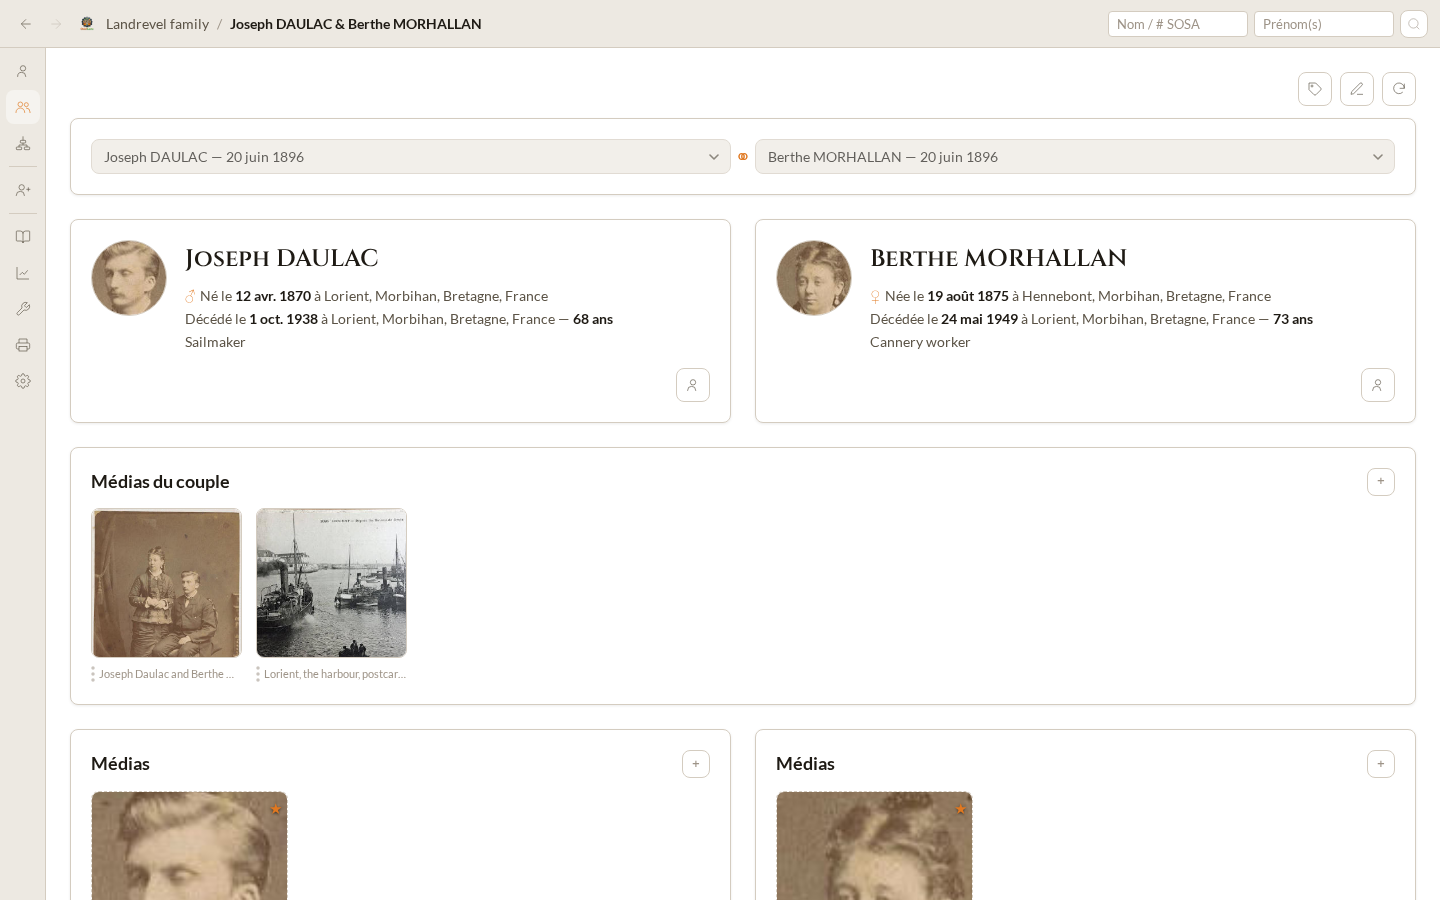
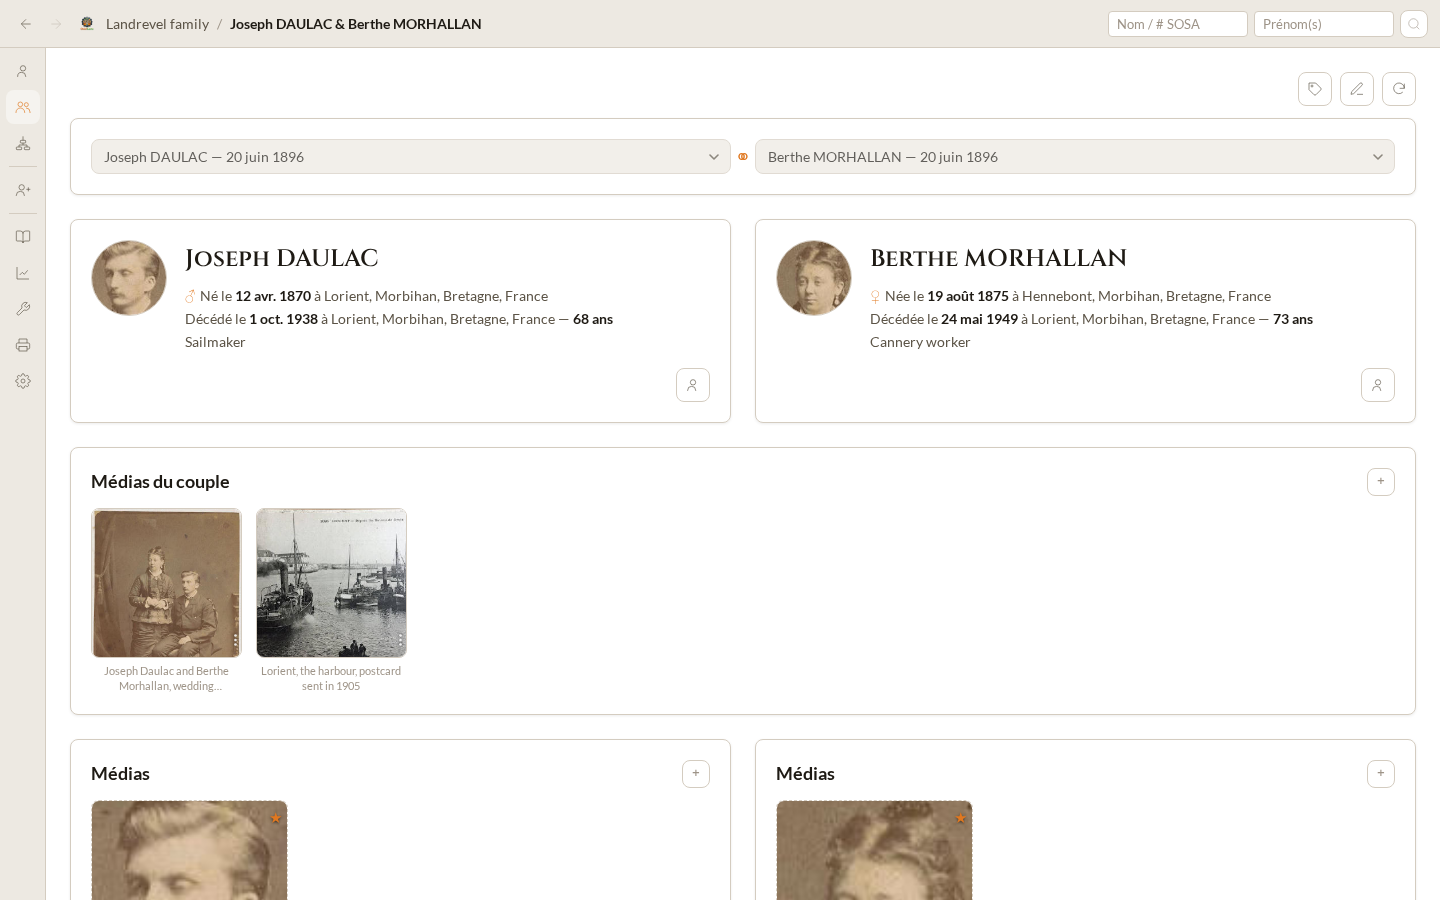
fix(ui): put a media tile's ⋮ on its picture and give its caption two lines
A media tile's ⋮ led its caption row, which left the caption a narrower
line and made the trigger read as part of the title. It now lies on the
picture, in its bottom right corner, close to the edge:

- discreet: no round scrim behind it, smaller dots than a row's ⋮
  (3 × 12 px), in white at 85 % with a soft 1.5 px shadow so that they
  still read on a pale scan; fully white when pointed at or open;
- the button keeps its 26 px hit area, the dots pushed to its right
  edge, and draws a focus ring when focused from the keyboard now that
  no background marks it;
- its own click and press never reach the picture, so it opens the
  tile's menu, not the viewer. The vignette tiles follow suit.

The caption keeps the whole width of the tile and wraps to two lines at
most, cut with an ellipsis, and always two lines tall so that tiles of
one row stay level.

ui-common.md §4.8 and the user guide (media, EN and FR) describe the new
place; the screenshots showing galleries are retaken.

Verified with just check (772 tests passed) and the PDF e2e spec,
including the updated test that the ⋮ sits in the picture's bottom
right corner and opens the menu rather than the viewer.

diff --git a/e2e/tests/pdf.spec.ts b/e2e/tests/pdf.spec.ts
@@ -130,15 +130,22 @@ test("at a phone's width the viewer's pager, count and pages fit its pane", asyn
     await expect.poll(() => scroll.evaluate(box => box.scrollWidth - box.clientWidth)).toBeLessThanOrEqual(1);
 });
 
-test("a media tile's ⋮ starts on its picture's left edge", async ({ page, request, tree }) => {
+test("a media tile's ⋮ lies on its picture, at the bottom right, and does not open the viewer", async ({ page, request, tree }) => {
     await attachPdf(request, tree, "Fictitious register", textPdf());
 
     await page.goto(`/trees/${tree.treeId}/persons/${tree.anchorId}`);
     const tile = page.locator(".media-tile", { hasText: "Fictitious register" });
-    const picture = await tile.locator(".media-thumb").boundingBox();
-    const dots = await tile.locator(".media-caption-row .menu-button-icon").boundingBox();
-    expect(picture).not.toBeNull();
-    expect(dots).not.toBeNull();
-    // The dots, not the button's padding, line up with the picture's frame.
-    expect(Math.abs(dots!.x - picture!.x)).toBeLessThanOrEqual(1);
+    const picture = (await tile.locator(".media-thumb").boundingBox())!;
+    const trigger = tile.locator(".media-thumb .menu-button");
+    const placed = (await trigger.boundingBox())!;
+    // Inside the picture, in its bottom right corner.
+    expect(placed.x + placed.width).toBeLessThanOrEqual(picture.x + picture.width);
+    expect(placed.y + placed.height).toBeLessThanOrEqual(picture.y + picture.height);
+    expect(picture.x + picture.width - (placed.x + placed.width)).toBeLessThanOrEqual(8);
+    expect(picture.y + picture.height - (placed.y + placed.height)).toBeLessThanOrEqual(8);
+
+    // A click on it opens the tile's menu, not the viewer.
+    await trigger.click();
+    await expect(page.locator(".context-menu")).toBeVisible();
+    await expect(page.locator(".pdf-viewer")).toHaveCount(0);
 });

diff --git a/crates/oxidgene-ui/src/components/layout.rs b/crates/oxidgene-ui/src/components/layout.rs
@@ -2479,7 +2479,6 @@ pub const LAYOUT_STYLES: &str = r#"
     .dict-row:focus-within .menu-button,
     .media-tile:hover .menu-button,
     .media-tile:focus-within .menu-button,
-    .media-caption-row:hover .menu-button,
     .note-entry:hover .menu-button,
     .note-entry:focus-within .menu-button,
     .pd-ev-row:hover .menu-button,
@@ -5017,11 +5016,16 @@ pub const LAYOUT_STYLES: &str = r#"
         font-size: var(--text-70);
         color: var(--text-muted);
         text-align: center;
-        /* One line, ellipsised: file names run long and a two-line caption
-           makes neighbouring tiles sit at different heights. */
+        /* Two lines, ellipsised, and always two lines tall, so that a short
+           caption does not leave its tile higher than its neighbours. */
+        line-height: 1.3;
+        min-height: 2.6em;
         overflow: hidden;
-        text-overflow: ellipsis;
-        white-space: nowrap;
+        overflow-wrap: anywhere;
+        display: -webkit-box;
+        -webkit-box-orient: vertical;
+        -webkit-line-clamp: 2;
+        line-clamp: 2;
     }
     /* The tags' dots follow the caption on its line, which gives way to
        them, so a tagged tile is no taller than another. */
@@ -5032,17 +5036,44 @@ pub const LAYOUT_STYLES: &str = r#"
         min-width: 0;
     }
     .media-caption-row .tag-badges { flex: 0 1 6rem; width: auto; margin-left: var(--space-2); }
-    /* The tile's ⋮ leads its caption row, its glyph on the picture's left
-       edge (no padding before it); the caption takes the rest of the row,
-       centred in it, so a trailing ⋮ does not read as part of the name. */
-    .media-caption-row:has(> .menu-button-wrap) { justify-content: flex-start; }
-    .media-caption-row > .menu-button-wrap { flex: 0 0 auto; }
-    .media-caption-row > .menu-button-wrap > .menu-button {
-        justify-content: flex-start;
-        padding-left: 0;
-        padding-right: var(--space-2);
+    /* A tile's ⋮ lies on its picture, at the bottom right: discreet dots,
+       a dimmed white with a soft shadow so that they read on any
+       photograph, even a white page, without a disc behind them; the
+       caption keeps the whole width of the tile. */
+    .media-thumb > .menu-button-wrap {
+        position: absolute;
+        right: 0;
+        bottom: 4px;
     }
-    .media-caption-row > .menu-button-wrap ~ .media-caption { flex: 1 1 auto; min-width: 0; }
+    .media-thumb > .menu-button-wrap > .menu-button,
+    .media-tile:hover .media-thumb > .menu-button-wrap > .menu-button,
+    .media-tile:focus-within .media-thumb > .menu-button-wrap > .menu-button {
+        width: 26px;
+        height: 26px;
+        /* The dots close to the picture's right edge, the button keeping
+           its full width to be hit. */
+        justify-content: flex-end;
+        padding: 0 4px 0 0;
+        border-radius: 50%;
+        background: none;
+        color: color-mix(in srgb, var(--on-accent) 85%, transparent);
+        filter: drop-shadow(0 0 1.5px color-mix(in srgb, var(--scrim) 70%, transparent));
+    }
+    .media-thumb > .menu-button-wrap > .menu-button:hover,
+    .media-thumb > .menu-button-wrap > .menu-button:focus-visible,
+    .media-thumb > .menu-button-wrap > .menu-button[aria-expanded="true"] {
+        background: none;
+        color: var(--on-accent);
+    }
+    /* Smaller dots than a row's ⋮: the picture is what the tile shows. */
+    .media-thumb > .menu-button-wrap .menu-button-icon {
+        width: 3px;
+        height: 12px;
+    }
+    .media-thumb > .menu-button-wrap > .menu-button:focus-visible {
+        outline: 2px solid var(--on-accent);
+        outline-offset: -2px;
+    }
 
     .media-event-link {
         font-size: var(--text-70);

diff --git a/crates/oxidgene-ui/src/components/media_gallery.rs b/crates/oxidgene-ui/src/components/media_gallery.rs
@@ -1084,8 +1084,8 @@ fn MediaTile(
                     look.pdf_preview.map(|page| (tree_id, page)),
                 )}
                 {tile_badges(&i18n, look.draws_remote, is_portrait, tile.media.page_count)}
-            }
-            div { class: "media-caption-row",
+                // The ⋮ lies on the picture, at its bottom right (ui-common.md
+                // §4.8); its own click and press never reach the picture.
                 MenuButton {
                     name: caption.clone(),
                     expanded: menu_at().is_some(),
@@ -1100,6 +1100,8 @@ fn MediaTile(
                         });
                     },
                 }
+            }
+            div { class: "media-caption-row",
                 div { class: "media-caption", title: "{caption}", "{caption}" }
                 TagBadges { tree_id: tree_id.to_string(), tags: tags.clone() }
             }
@@ -1774,8 +1776,6 @@ fn VignetteTile(
                 // Says what it is: without it a crop and the whole scan look
                 // like two photographs of the same thing.
                 span { class: "media-vignette-badge", title: i18n.t("media.vignette"), "\u{2702}" }
-            }
-            div { class: "media-caption-row",
                 if person_id.is_some() {
                     MenuButton {
                         name: caption.clone(),
@@ -1790,6 +1790,8 @@ fn VignetteTile(
                         },
                     }
                 }
+            }
+            div { class: "media-caption-row",
                 div { class: "media-caption", title: "{caption}", "{caption}" }
             }
             if let Some(err) = error() {

diff --git a/docs/ui-common.md b/docs/ui-common.md
@@ -3,7 +3,7 @@ type: "UI Specification"
 title: "Visual & Functional Specifications — Common UI"
 description: "Shared layout, navigation, design tokens, components, accessibility, and responsive behavior."
 tags: [oxidgene, specification, ui, ux, design-system]
-generated: { by: human:maintainer, at: 2026-10-23T15:10:09Z }
+generated: { by: human:maintainer, at: 2026-10-23T21:40:00Z }
 ---
 
 # Visual & Functional Specifications — Common UI
@@ -837,7 +837,7 @@ draws the menu for its shortcuts too. The page measures the trigger with
 `trigger_point`, opens its menu beside it, and returns the focus to the trigger
 with `focus_trigger` when the menu closes. Record rows (`RecordMenu`, §4.18)
 and media tiles and vignettes use this form, so a right click, a long press
-and the ⋮ open the same menu. A media tile's ⋮ leads its caption row, its glyph on the picture's left edge, the caption centred in the rest of the row — the one ⋮ not at a trailing edge, as a centred, truncated caption followed by it read badly —
+and the ⋮ open the same menu. A media tile's ⋮ lies on its picture, at the bottom right, close to its right edge, its dots smaller than a row's and a dimmed white with a soft shadow, no disc behind them, so that it stays discreet yet reads on any photograph — the one ⋮ outside a line, which leaves the caption the whole width of the tile, on two lines at most, cut with an ellipsis and always two lines tall so that tiles stay level —
 and holds its secondary actions in this order: set or clear the profile image,
 crop, Edit, Link an event, Unlink an event, Tags…, Detach (asked for in a
 confirmation), Delete. Only opening the viewer stays a direct action.

diff --git a/site/content/guide/media.fr.md b/site/content/guide/media.fr.md
@@ -32,7 +32,7 @@ Un document ajouté depuis le formulaire de la personne ou du couple est écrit 
 
 ## Organiser les documents d’une personne ou d’un couple
 
-Dans la section **Médias** du formulaire de la personne ou du couple, chaque vignette porte un bouton **⋮** à la fin de sa légende. Son menu, qui s’ouvre aussi par un clic droit, propose ces actions :
+Dans la section **Médias** du formulaire de la personne ou du couple, chaque vignette porte un bouton **⋮** en bas à droite de son image. Son menu, qui s’ouvre aussi par un clic droit, propose ces actions :
 
 - **Utiliser comme photo de profil** (★) : fait de l’image le portrait de la personne, affiché sur sa carte dans l’arbre, sur sa fiche et dans le panneau des événements. Un PDF ne peut pas servir de portrait, même quand sa vignette montre la numérisation qu’il contient.
 - **Découper une zone** (✂) : tracez un rectangle sur l’image pour n’en garder qu’une partie, comme un visage sur une photo de groupe ou un acte sur une page de registre, puis cliquez sur **Enregistrer la zone**. Vous pouvez indiquer l’événement que la zone documente.

diff --git a/site/content/guide/media.md b/site/content/guide/media.md
@@ -32,7 +32,7 @@ A document added from the person or couple form is written when you save the doc
 
 ## Arrange the documents of a person or couple
 
-In the **Media** section of the person form or the couple form, each tile has a **⋮** button at the end of its caption. Its menu, which a right click also opens, holds these actions:
+In the **Media** section of the person form or the couple form, each tile has a **⋮** button in the bottom right corner of its picture. Its menu, which a right click also opens, holds these actions:
 
 - **Use as profile image** (★): makes the image the person's portrait, shown on their tree card, page and events panel. A PDF cannot be a portrait, even when its tile shows the scan it holds.
 - **Crop a region** (✂): drag a rectangle on the image to keep only part of it, such as a face on a group photo or one entry on a register page, then click **Save region**. You can say which event the region documents.
